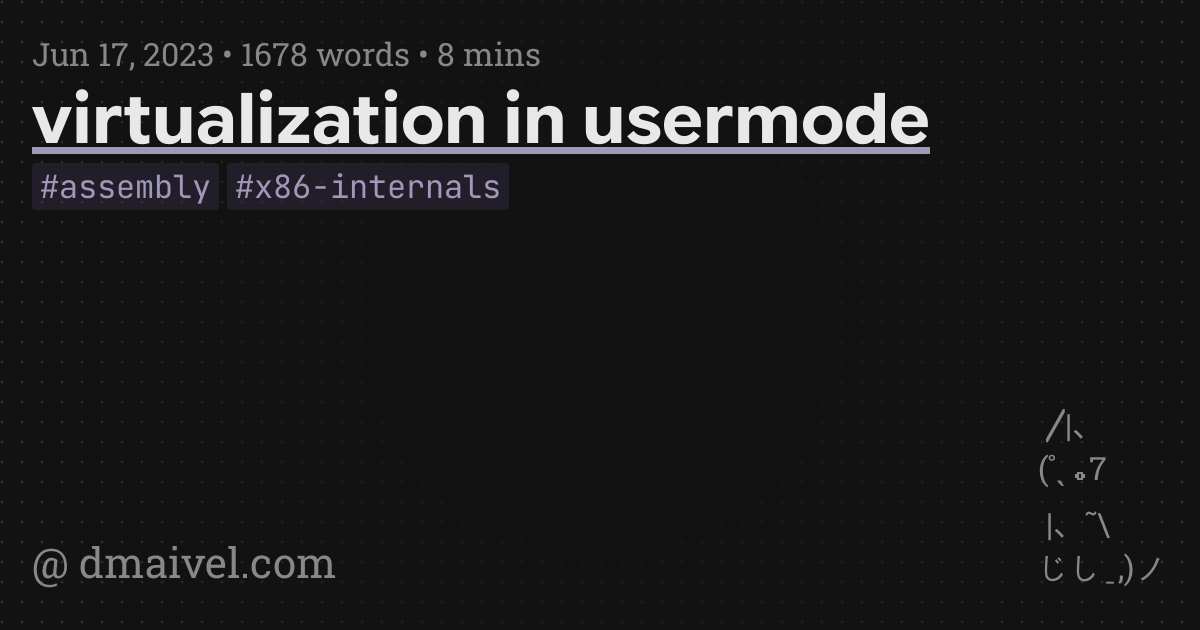
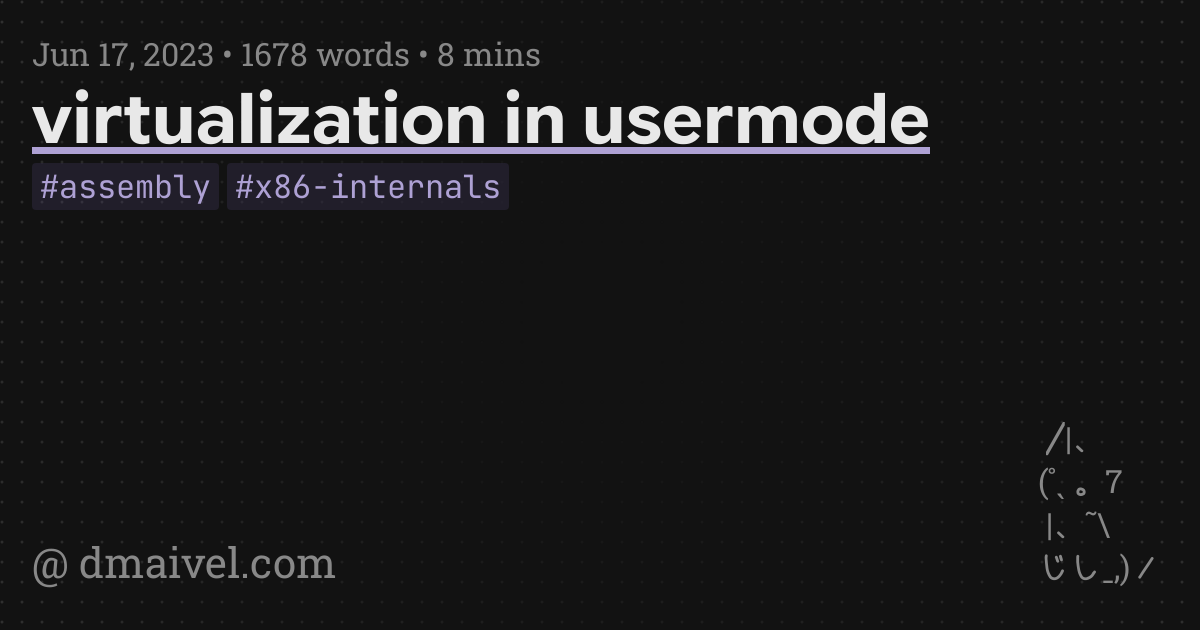
small style changes

Changed region(s): [[0.0308, 0.2111, 0.7708, 0.3317], [0.8633, 0.8746, 0.9867, 0.9349], [0.8633, 0.6635, 0.925, 0.7841]]

diff --git a/layouts/partials/nav.html b/layouts/partials/nav.html
@@ -40,7 +40,7 @@
         color: #ddd;
     }
     .home:hover {
-        color: #a098b8;
+        color: #aea1d4;
     }
 
     .home-logo {
@@ -53,20 +53,20 @@
         vertical-align: middle;
     }
     .home:hover .home-logo {
-        background-color: #a098b8;
+        background-color: #aea1d4;
     }
 </style>
 
 <div class="nav_stuff">
-    <h2 style="margin-bottom: 0; margin-top: 0; text-decoration: underline; text-decoration-color: #a098b8; font-size: 24px; background-color: #121214;">
+    <h2 style="margin-bottom: 0; margin-top: 0; font-size: 24px; background-color: #121214;">
         <a class="home" href="/" style="text-decoration: none;"><span class="home-logo"></span></a>
     </h2>
     <div style="justify-content: center; display: flex; gap: 16px">
-        <h2 style="margin-bottom: 0; margin-top: 0; text-decoration: underline; text-decoration-color: #a098b8; font-size: 24px;">
-            <a class="home" href="https://github.com/dmaivel" style="text-decoration-color: #a098b8; font-family: 'Roboto Slab'; font-size: 20px;">github</a>
+        <h2 style="margin-bottom: 0; margin-top: 0; font-size: 24px;">
+            <a class="home" href="https://github.com/dmaivel" style="text-decoration-color: #aea1d4; font-family: 'Roboto Slab'; font-size: 20px;">github</a>
         </h2>
-        <h2 style="margin-bottom: 0; margin-top: 0; text-decoration: underline; text-decoration-color: #a098b8; font-size: 24px;">
-            <a class="home" href="/about" style="text-decoration-color: #a098b8; font-family: 'Roboto Slab'; font-size: 20px;">about</a>
+        <h2 style="margin-bottom: 0; margin-top: 0; font-size: 24px;">
+            <a class="home" href="/about" style="text-decoration-color: #aea1d4; font-family: 'Roboto Slab'; font-size: 20px;">about</a>
         </h2>
     </div>
 </div>

diff --git a/layouts/_default/baseof.html b/layouts/_default/baseof.html
@@ -294,8 +294,8 @@
   h1, h2, h3, h4, h5, h6, .post-date, .post-tag {
     /* font-family: RobotoSlab, sans-serif */
     font-family: Google Sans Flex;
-    text-decoration: underline #a098b8 solid;
-    -webkit-text-decoration: underline #a098b8 solid;
+    /* text-decoration: underline #aea1d4 solid; */
+    /* -webkit-text-decoration: underline #aea1d4 solid; */
   }
 
   a.footnote-ref {
@@ -364,12 +364,16 @@
   }
 
   a {
-    text-decoration-color: #a098b8;
+    text-decoration: none;
     color: #d4d4d4;
   }
 
   a:hover:not(sup a) {
-    color: #a098b8;
+    color: #aea1d4;
+  }
+
+  a:not(:is(h1, h2, h3, h4, h5, h6, span) a) {
+    text-decoration: dotted underline 1px #aea1d4;
   }
 
   code:not(pre code) {
@@ -389,10 +393,10 @@
     text-decoration: none;
   }
 
-  h1 a:hover, h2 a:hover, h3 a:hover, 
+  /* h1 a:hover, h2 a:hover, h3 a:hover, 
   h4 a:hover, h5 a:hover, h6 a:hover {
     text-decoration: underline;
-  }
+  } */
 
   #suggestions {
     max-width: 42em;
@@ -450,7 +454,7 @@
   .note {
     /* display: inline-block; */
     position: relative;
-    color: #a098b8;
+    color: #aea1d4;
     /*color: ;*/
     font-size: inherit;
   }
@@ -717,8 +721,8 @@
   .tag {
       font-family: JetBrains Mono;
       font-size: 0.9rem;
-      color: #a098b8;
-      background: #a098b81a;
+      color: #aea1d4;
+      background: #aea1d41a;
       padding: 2px 8px;
       border-radius: 4px;
   }

diff --git a/og_image_template.html b/og_image_template.html
@@ -233,7 +233,7 @@ body {
 h1 {
     font-size: 150px;
     font-family: "Roboto Slab", sans-serif;
-    text-decoration: underline solid #a098b8;
+    text-decoration: underline solid #aea1d4;
     margin-bottom: 0px;
 }
 
@@ -258,7 +258,7 @@ h3 {
 
 p {
     font-family: "Google Sans Flex";
-    text-decoration: underline solid #a098b8;
+    text-decoration: underline solid #aea1d4;
     font-size: 70px;
     font-weight: bold;
     margin-top: 0;
@@ -268,7 +268,7 @@ p {
 hr { 
     border: none; 
     height: 0; 
-    border-top: 12px dotted #a098b8; 
+    border-top: 12px dotted #aea1d4; 
 }
 
 pre {
@@ -294,7 +294,7 @@ pre {
 .tag {
     font-family: JetBrains Mono;
     font-size: 2rem;
-    color: #a098b8;
+    color: #aea1d4;
     background: rgba(167, 139, 250, 0.1);
     padding: 2px 8px;
     border-radius: 4px;

diff --git a/layouts/_default/posts/single.html b/layouts/_default/posts/single.html
@@ -15,7 +15,7 @@
   <div style="color: #888;">
     {{ .Date.Format "Jan 2, 2006" }} • {{ .WordCount }} words • {{ .ReadingTime }} mins
   </div>
-  <h1 style="margin-bottom: 0px; margin-top: 0px; text-decoration: underline solid #a098b8; -webkit-text-decoration: underline solid #a098b8;">{{ .Title }}</h1>
+  <h1 style="margin-bottom: 0px; margin-top: 0px;">{{ .Title }}</h1>
   <div class="post-tags">
     {{ range .Params.tags }}
       <span class="tag">#{{ . }}</span>

diff --git a/content/about.md b/content/about.md
@@ -5,20 +5,27 @@ layout: "page"
 
 <img src="https://avatars.githubusercontent.com/u/38770072?v=4" alt="about me" style="float: right; margin: 0 5px 15px 15px; width: 96px; height: 96px; border-radius: 50%;">
 
-#### about me
+<h4 style="margin-top: 24px">about me</h4>
 
 I explore compilers, operating systems, virtualization, and runtimes. My projects reflect what I've learned along the way.
 
-#### projects
+<h4>projects</h4>
 
-- [**SharedGL**](https://github.com/dmaivel/SharedGL): OpenGL 4.6 for Windows guests in QEMU/KVM via shared memory or sockets
-- [**libdecomp**](https://github.com/dmaivel/libdecomp): library for decompiling x86 & ARM64 bytecode into optimized source code
-- [**covirt**](https://github.com/dmaivel/covirt): x86-64 code virtualizer w/ various obfuscation passes, including MBA
-- [**ntoseye**](https://github.com/dmaivel/ntoseye): windows kernel debugger for Linux hosts running Windows under QEMU/KVM
-- [**vscc**](https://github.com/dmaivel/vscc): x86-64 JIT compiler backend with no third party dependencies
-- [**glBLAS**](https://github.com/dmaivel/glBLAS): BLAS functions written in OpenGL fragment shaders, challenging cuBLAS
-- [**cugrad**](https://github.com/dmaivel/cugrad): automatic differentiation library written in C++ and CUDA from scratch
+- [**SharedGL**](https://github.com/dmaivel/SharedGL)<br>
+  OpenGL 4.6 for Windows guests in QEMU/KVM via shared memory or sockets
+- [**libdecomp**](https://github.com/dmaivel/libdecomp)<br>
+  library for decompiling x86 & ARM64 bytecode into optimized source code
+- [**covirt**](https://github.com/dmaivel/covirt)<br>
+  x86-64 code virtualizer w/ various obfuscation passes, including MBA
+- [**ntoseye**](https://github.com/dmaivel/ntoseye)<br>
+  windows kernel debugger for Linux hosts running Windows under QEMU/KVM
+- [**vscc**](https://github.com/dmaivel/vscc)<br>
+  x86-64 JIT compiler backend with no third party dependencies
+- [**glBLAS**](https://github.com/dmaivel/glBLAS)<br>
+  BLAS functions written in OpenGL fragment shaders, challenging cuBLAS
+- [**cugrad**](https://github.com/dmaivel/cugrad)<br>
+  automatic differentiation library written in C++ and CUDA from scratch
 
-#### contact
+<h4>contact</h4>
 
 - contact@dmaivel.com
